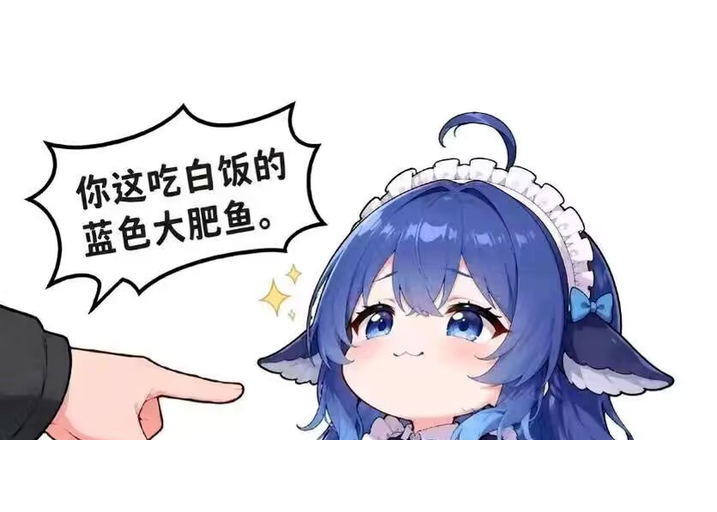
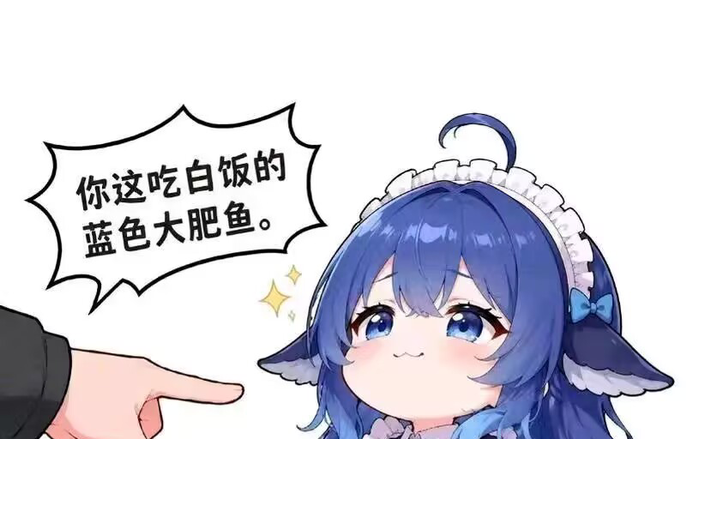
chore: mod 显示名改为「雷霆大肥鱼炸飞星海」，封面去掉多余留白
用户要求:
  1) 封面下面的字不要
  2) mod 名字改成「雷霆大肥鱼炸飞星海」（GitHub 仓库名不动）

 名字变更（descriptor.mod 是启动器读取的显示名）:
     ZL - 天枢执政 · 雷霆大肥鱼炸飞星海
     -> 雷霆大肥鱼炸飞星海
  同步修改 descriptor.mod.template / zl_unique_administrator.mod.template
  以及本地 mod/zl_unique_administrator.mod（该文件不入库）

 封面变更（tools/make_thumbnail.py）:
- 之前的版本虽然已不含标题文字，但底部留白偏多（14%）
- 但实测发现：原图内容横向几乎铺满（x=0..789），横向裁切会切掉
  气泡文字或角色；而目标比例 1.400 比原图 1.954 更"方"，
  所以纵向留白无法避免（不裁切 = 必然留白，二者只能选一）
- 采用方案：整图等比缩放到宽度铺满（不裁切任何内容），
  上下留白【居中】，并保证底部至少 24px 安全边距
     -> 上留白 72px / 下留白 73px，视觉均衡
     -> 启动器无论从哪边裁都不会切到内容
- 封面中不含任何文字（气泡里的对白属于画面内容，保留）

 规格: 717x512 (1.400)、PNG、229 KB（高 >=512、<1MB 均满足）

 另: 同步更新了启动器数据库 launcher-v2.sqlite 里的
     displayName 与 thumbnailPath（本地状态，不入库）

diff --git a/tools/make_thumbnail.py b/tools/make_thumbnail.py
@@ -2,20 +2,23 @@
 make_thumbnail.py —— 生成创意工坊封面
 
 输入：thumbnail-source.png（用户提供的原图）
-输出：thumbnail.png
+输出：thumbnail.png（横向 717x512）
 
-── 为什么用【横向】而不是正方形 ──────────────────────────────────────
-工坊虽然推荐 >=512x512，但【启动器 Mod 库里的显示框是横向的】。
-实测：正方形封面会被按横向框裁切，底部内容（例如画在图里的标题）会被切掉。
+── 设计约束（都是实测定下来的）────────────────────────────────────────
+1) 启动器 Mod 库的显示框是【横向】的（约 1.400:1）。
+   用正方形会被裁切，所以按 1.400 出图。
 
-因此这里输出一个横向比例（约 1.4:1）的封面：
-  · 与启动器的显示框比例接近 → 不会被裁掉内容
-  · 高度仍然 >= 512，满足工坊要求
-  · 不把标题画进图片 —— 启动器旁边本来就会显示 mod 名字，
-    画进去反而会被裁掉。
+2) 【不要把标题画进图片】—— 启动器旁边本来就显示 mod 名字，
+   画进去既多余、又会被裁掉。
 
-构图：整张原图直接用（气泡 + 手 + 角色一应俱全），
-      只裁掉底部多余的白边。
+3) 【不裁切内容】—— 原图内容横向几乎铺满（x=0..789），
+   横向裁切会切掉气泡文字或角色。
+   原图比例 1.954 比目标 1.400 更宽，所以只能纵向留白。
+
+4) 留白要【上下居中】，并且底部保证 SAFE_BOTTOM 以上的空白，
+   这样：
+     · 启动器无论从哪边裁，都不会切到内容
+     · 图片下缘不会出现被裁掉一半的文字
 """
 import os
 from PIL import Image
@@ -26,12 +29,9 @@ SRC = os.path.join(MOD, "thumbnail-source.png")
 OUT = os.path.join(MOD, "thumbnail.png")
 
 HEIGHT = 512
-# 目标宽高比（≈ 启动器 Mod 卡片的显示框比例）
-ASPECT = 1.40
-# 从底部裁掉多少纯白（原图下方有约 40px）
-CROP_BOTTOM = 40
-# 左右各裁掉多少（可选，用于微调构图；负数表示不裁）
-CROP_SIDE = 0
+ASPECT = 1.40          # 匹配启动器显示框
+CROP_BOTTOM = 42       # 裁掉原图底部纯白
+SAFE_BOTTOM = 24       # 底部至少保留的空白（防止贴边被裁）
 
 
 def main():
@@ -39,37 +39,49 @@ def main():
         raise SystemExit("找不到原图: %s" % SRC)
 
     im = Image.open(SRC).convert("RGB")
-    print("原图: %dx%d  (宽高比 %.3f)" % (im.width, im.height, im.width / im.height))
+    print("原图: %dx%d  (%.3f)" % (im.width, im.height, im.width / im.height))
 
-    # 1) 裁掉底部白边
     if CROP_BOTTOM > 0 and im.height - CROP_BOTTOM > 100:
         im = im.crop((0, 0, im.width, im.height - CROP_BOTTOM))
-    # 2) 可选：裁掉左右
-    if CROP_SIDE > 0 and im.width - 2 * CROP_SIDE > 200:
-        im = im.crop((CROP_SIDE, 0, im.width - CROP_SIDE, im.height))
-
     W, H = im.size
-    print("裁边后: %dx%d  (%.3f)" % (W, H, W / H))
+    print("裁掉底部白边后: %dx%d  (%.3f)" % (W, H, W / H))
 
-    # 3) 整图缩放，【不裁切】：
-    #    先按宽度铺满，再按高度铺满，取较小的缩放比 -> 保证内容完整
     target_w = int(round(HEIGHT * ASPECT))
-    scale = min(target_w / W, HEIGHT / H)
-    nw, nh = int(round(W * scale)), int(round(H * scale))
+    # 等比缩放到【宽度铺满】（不裁切内容）
+    scale = target_w / W
+    nw, nh = target_w, int(round(H * scale))
+    if nh > HEIGHT:                     # 万一高度超出，改为按高度缩放
+        scale = HEIGHT / H
+        nw, nh = int(round(W * scale)), HEIGHT
     im = im.resize((nw, nh), Image.LANCZOS)
+    print("缩放后: %dx%d" % (nw, nh))
 
-    # 4) 画布居中放置，四周不足处补白（原图本就是白底，衔接自然）
+    # 垂直居中，保证上下留白尽量均匀、且底部不小于 SAFE_BOTTOM
+    free = HEIGHT - nh
+    top = max(0, min(free - SAFE_BOTTOM, free))
+    top = free // 2 if free - SAFE_BOTTOM >= 0 else 0
+    # 若居中后底部不足 SAFE_BOTTOM，则上移
+    if HEIGHT - (top + nh) < SAFE_BOTTOM:
+        top = max(0, HEIGHT - nh - SAFE_BOTTOM)
+
     canvas = Image.new("RGB", (target_w, HEIGHT), (255, 255, 255))
-    canvas.paste(im, ((target_w - nw) // 2, (HEIGHT - nh) // 2))
-    im = canvas
+    canvas.paste(im, ((target_w - nw) // 2, top))
+    canvas.save(OUT, "PNG")
 
-    im.save(OUT, "PNG")
     kb = os.path.getsize(OUT) / 1024
     print("输出: %s" % OUT)
-    print("  %dx%d  (%.3f)  %.1f KB   图片区 %dx%d 居中"
-          % (im.width, im.height, im.width / im.height, kb, nw, nh))
-    assert im.height >= 512 and im.width >= 512
+    print("  %dx%d  (%.3f)  %.1f KB" % (canvas.width, canvas.height,
+                                        canvas.width / canvas.height, kb))
+    print("  图片区 %dx%d  top=%d  上留白=%d  下留白=%d"
+          % (nw, nh, top, top, HEIGHT - top - nh))
+    assert canvas.height >= 512 and canvas.width >= 512
     assert os.path.getsize(OUT) < 1024 * 1024
+    assert HEIGHT - top - nh >= SAFE_BOTTOM, "底部留白不足"
+
+
+if __name__ == "__main__":
+    main()
+
 
 
 if __name__ == "__main__":
